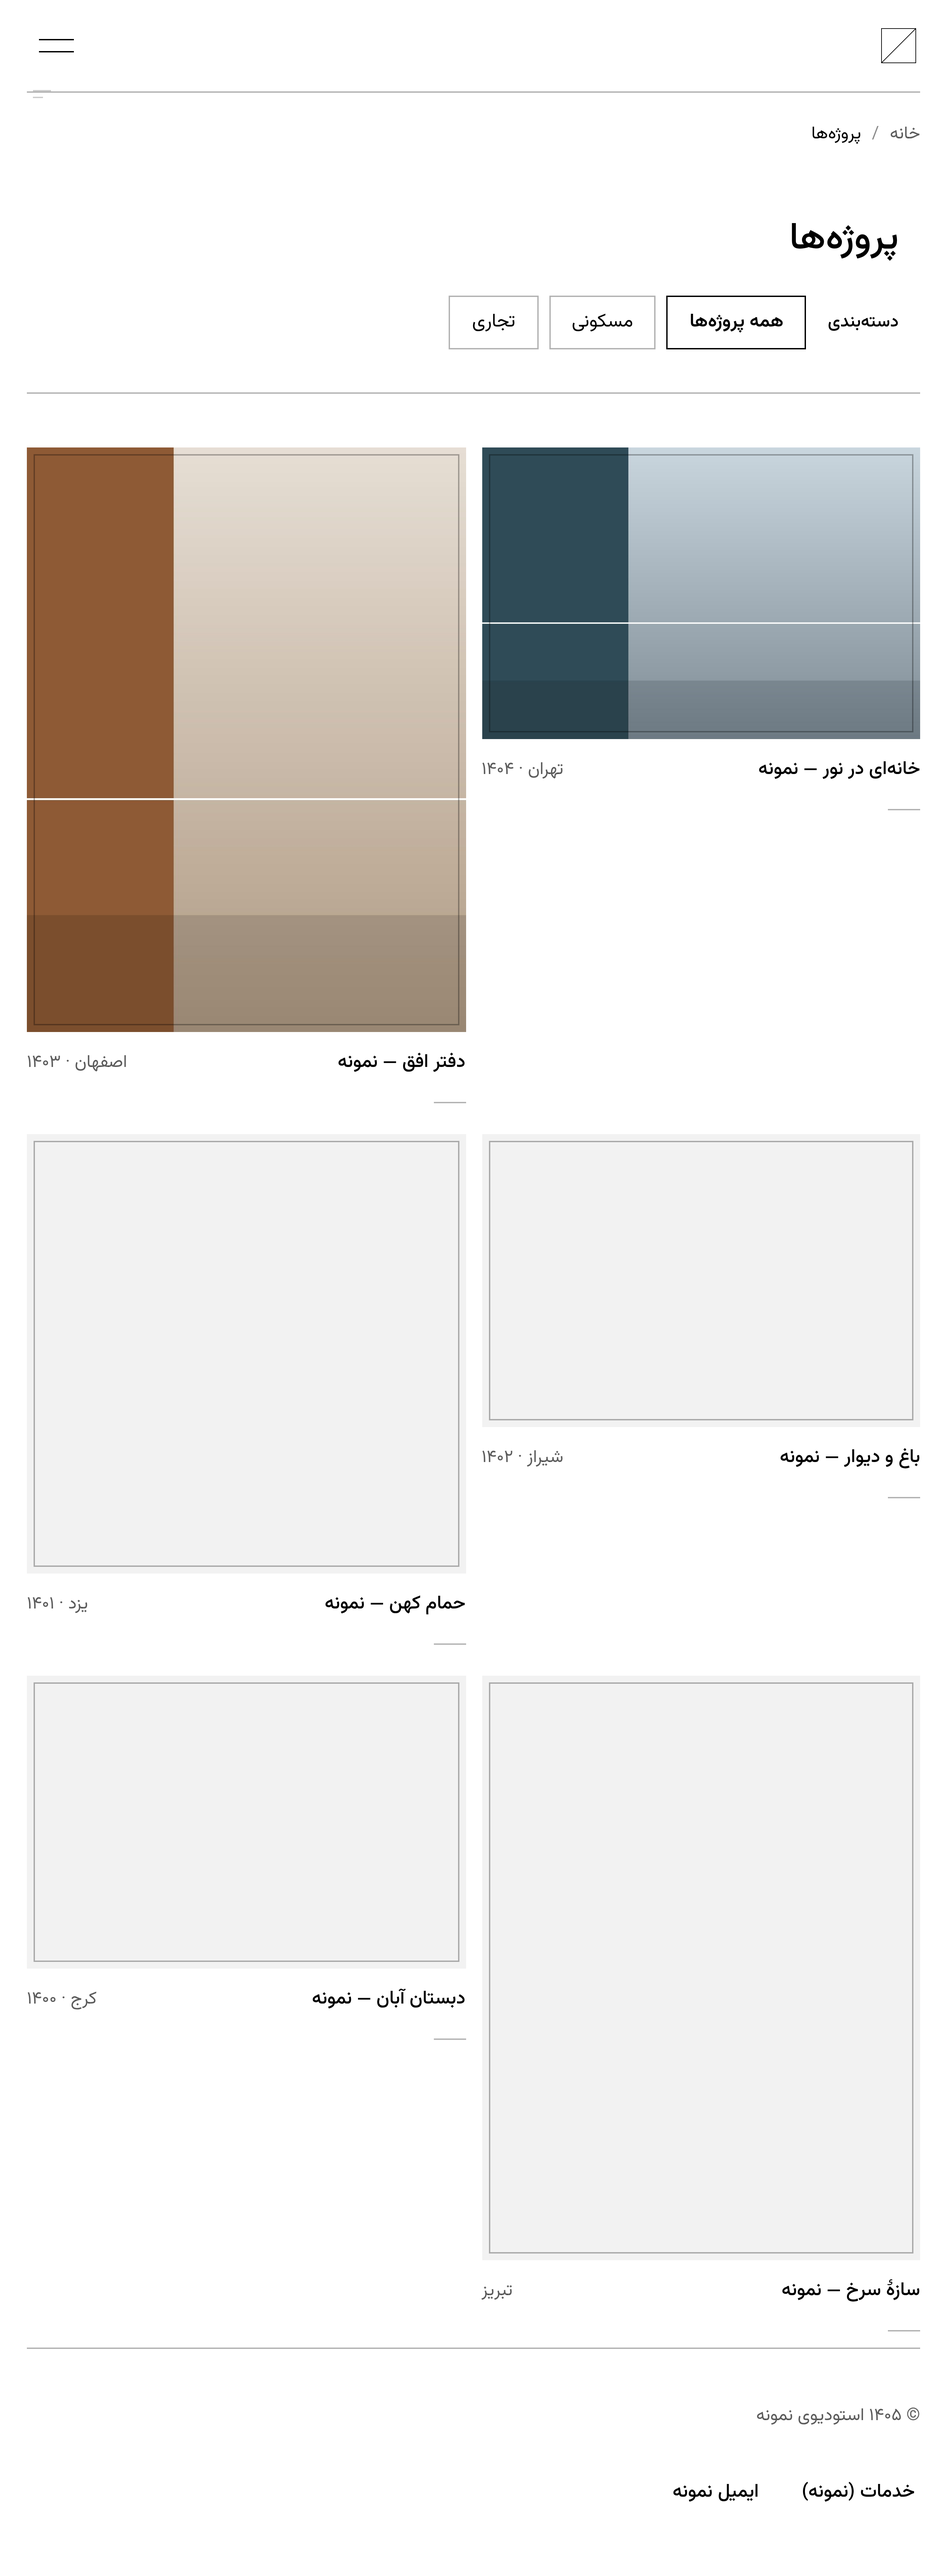
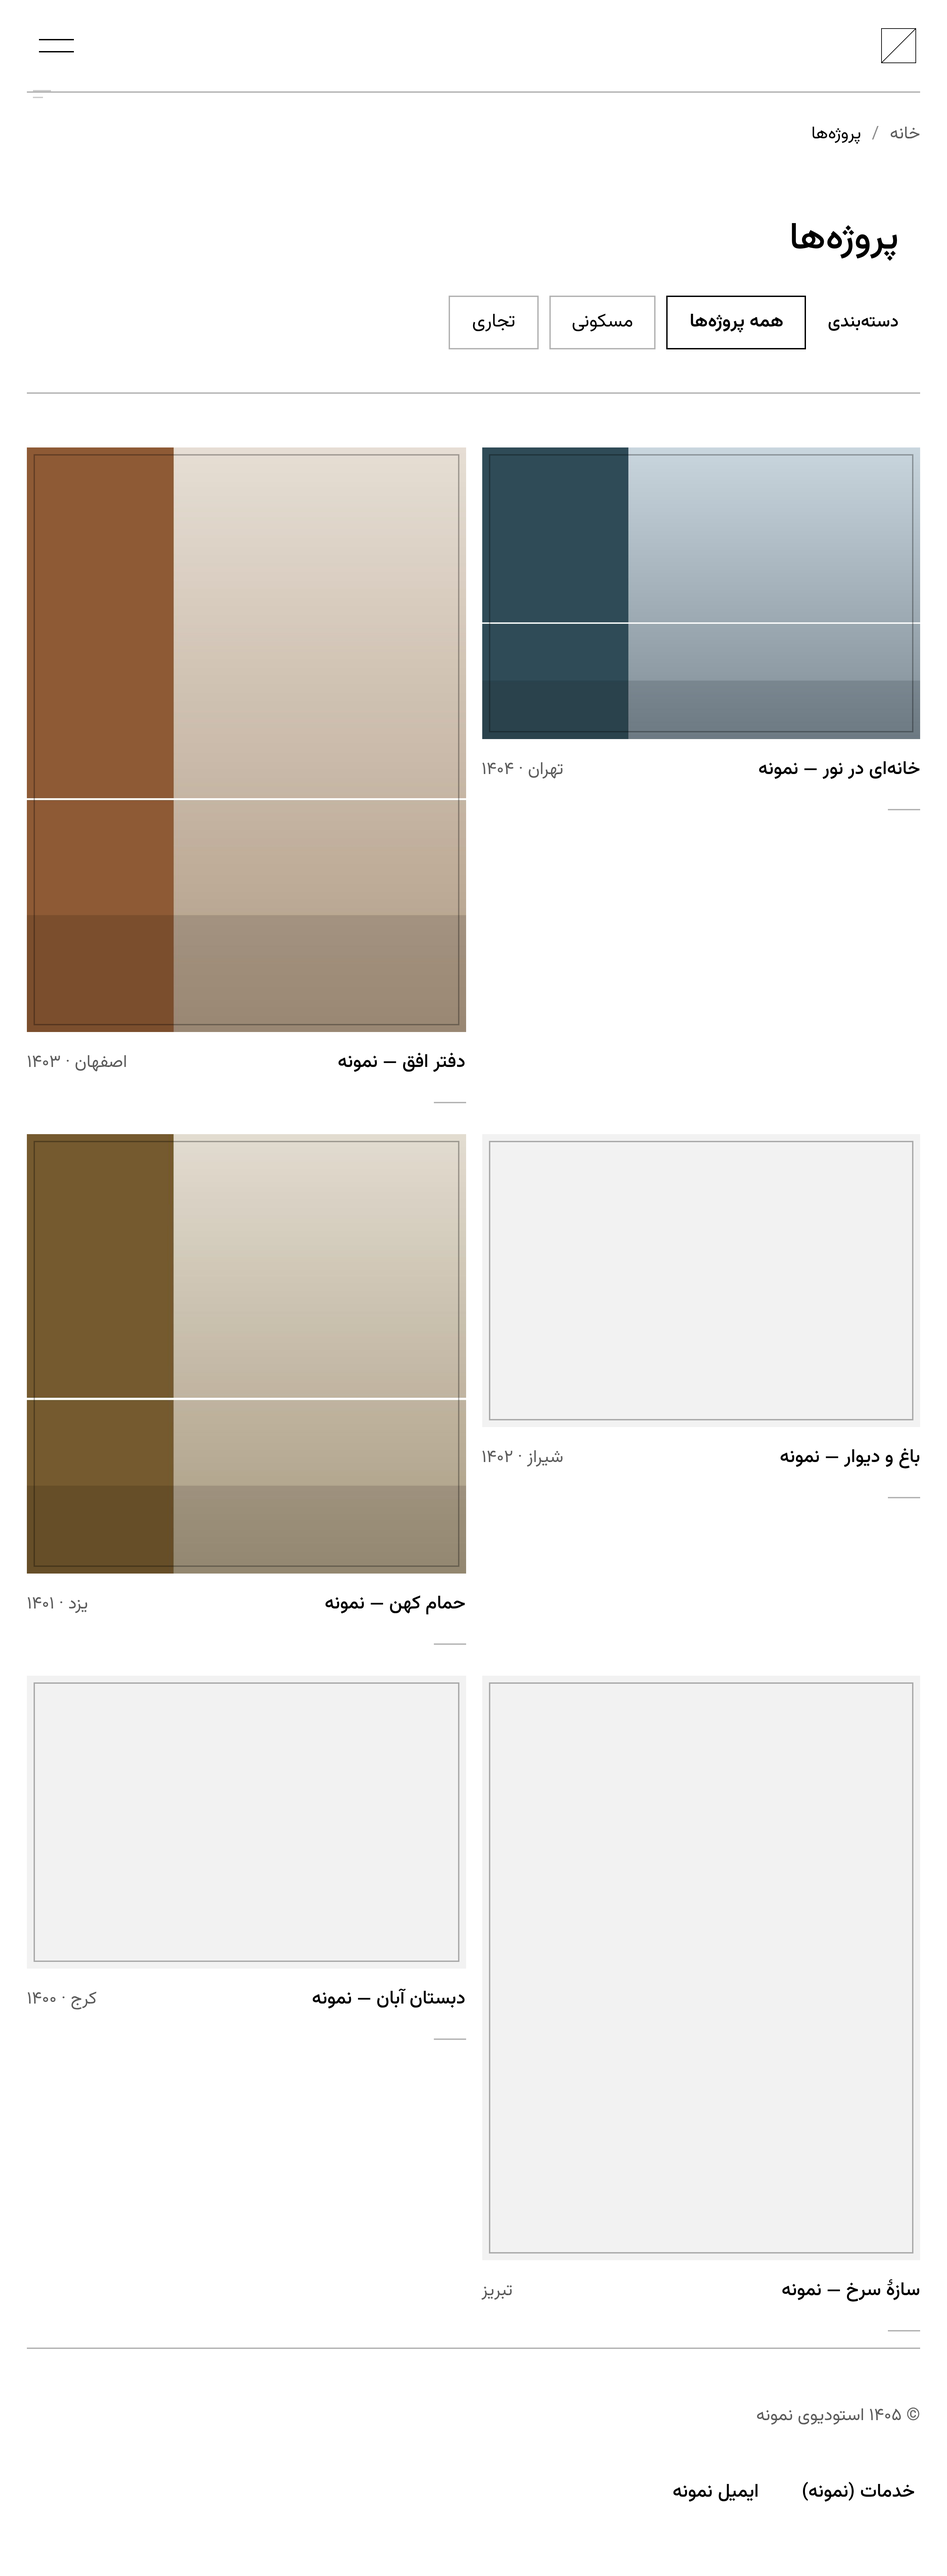
Fix the double locale prefix on the home language switch
`HomeView` built the switch target from `href('/', locale, site)` inside the
closure, so `href` applied the prefix a second time: on `/en` the "English"
entry pointed at `/en/en` and "فارسی" pointed back at `/en` instead of `/`.
The switch now takes the locale-neutral home path and `href` applies the prefix
exactly once — verified live in both directions and pinned by tests
(`89 tests`, 9 files). Evidence regenerated: 40 shots, 0 failures, 0 overflow
offenders, 0 console errors.

Changed region(s): [[0.0312, 0.4364, 0.4993, 0.6234]]

diff --git a/tests/content.test.ts b/tests/content.test.ts
@@ -172,6 +172,23 @@ describe('language switch targets', () => {
     expect(english?.href).toBe('/en/search?q=%D9%86%D9%88%D8%B1')
   })
 
+  it('builds the home switch from a locale-neutral path, never a prefixed one', async () => {
+    // The bug this guards: passing `href('/', locale, site)` inside the closure applied
+    // the prefix twice, so the English home offered `/en/en` and pointed "فارسی" at `/en`.
+    const { switchTargetsForPath } = await import('@/lib/seo/translations')
+    for (const from of ['fa', 'en'] as Locale[]) {
+      const targets = switchTargetsForPath(ctx(from), () => '/')
+      expect(targets.find((target) => target.locale === 'fa')?.href).toBe('/')
+      expect(targets.find((target) => target.locale === 'en')?.href).toBe('/en')
+    }
+  })
+
+  it('switches an interior path in both directions', async () => {
+    const { switchTargetsForPath } = await import('@/lib/seo/translations')
+    const targets = switchTargetsForPath(ctx('en'), () => '/projects')
+    expect(targets.map((target) => target.href).sort()).toEqual(['/en/projects', '/projects'])
+  })
+
   it('keeps the default locale unprefixed and adds no empty query', async () => {
     const { switchTargetsForPath } = await import('@/lib/seo/translations')
     const targets = switchTargetsForPath(ctx('en'), () => '/projects')

diff --git a/src/views/HomeView.tsx b/src/views/HomeView.tsx
@@ -4,7 +4,6 @@ import { HomeStage } from '@/components/home/HomeStage'
 import { StateView } from '@/views/StateView'
 import { getHeader } from '@/lib/cms/endpoints'
 import { loadPageContext } from '@/lib/cms/pageContext'
-import { href } from '@/lib/routing/locale'
 import { navLinks } from '@/lib/routing/nav'
 import { THEME_ROUTES } from '@/lib/routing/paths'
 import { metadataFor } from '@/lib/seo/metadata'
@@ -41,6 +40,8 @@ export const HomeView = async ({ locale }: { locale: Locale }) => {
   const branding = ctx.site.branding
   const t = dictionary(locale)
 
+  // The switch is path-based: the home path is locale-neutral, so `href` applies the
+  // prefix exactly once. Pre-prefixing it here produced `/en/en` on the English home.
   return (
     <HomeStage
       dir={ctx.dir}
@@ -57,7 +58,7 @@ export const HomeView = async ({ locale }: { locale: Locale }) => {
       menuNoScript={t.menuNoScript}
       name={branding?.displayName ?? ctx.site.name}
       scrollCue={t.scrollCue}
-      switchTargets={switchTargetsForPath(ctx, () => href(THEME_ROUTES.home, locale, ctx.site))}
+      switchTargets={switchTargetsForPath(ctx, () => THEME_ROUTES.home)}
     />
   )
 }

diff --git a/docs/QA.md b/docs/QA.md
@@ -38,7 +38,7 @@ the resulting screenshots look fine while measuring nothing.
 | Vendored runtime builds | `npm run vendor:build` | passes (8 modules emitted) |
 | TypeScript | `npm run typecheck` | clean, `strict` + `noUncheckedIndexedAccess` + `verbatimModuleSyntax` |
 | ESLint | `npm run lint` | 0 errors, 0 warnings |
-| Unit/integration tests | `npm test` | **9 files, 87 tests, all passing** |
+| Unit/integration tests | `npm test` | **9 files, 89 tests, all passing** |
 | Production build | `npm run build` | Next 16.3.8, compiles, all routes emitted |
 | Browser evidence | `node scripts/screenshots.mjs` | **40 shots, 0 failures**, no page errors, no horizontal overflow |
 | Manifest | `tests/manifest.test.ts` + the CMS's own parser | accepted (§5) |
@@ -152,7 +152,7 @@ identifier is neutral.
 
 ## 6. Regression list — real defects found and fixed during this work
 
-Each was reproduced in a browser or by a failing test before being fixed (17 items).
+Each was reproduced in a browser or by a failing test before being fixed (18 items).
 
 1. **CSS layers.** `styles/*.css` were unlayered and outranked Tailwind utilities, so
    `md:hidden` and `md:grid-cols-*` silently did nothing (the hamburger showed at 1440px).
@@ -196,7 +196,11 @@ Each was reproduced in a browser or by a failing test before being fixed (17 ite
 16. **Language switch dropped the search term.** `/search?q=…` switched language to a bare
     `/en/search`. Locale-neutral queries are carried over; category slugs deliberately are not,
     because they belong to one locale.
-17. **Dead end without JavaScript.** The entrance's menu is a client state change and the logo,
+17. **Double locale prefix on the English home.** The home language switch pre-applied the
+    locale before `href` applied it again, so `/en` offered `/en/en` for "English" and pointed
+    "فارسی" back at `/en`. The switch now takes the locale-neutral home path; both directions
+    are covered by tests and by shots 01/03.
+18. **Dead end without JavaScript.** The entrance's menu is a client state change and the logo,
     rule and cue are server-rendered at `opacity: 0`, so a visitor with scripting off saw a
     blank stage and no way into the site. A `<noscript>` menu now lists the same CMS
     destinations and a no-script stylesheet reveals the stage — captured as shot 40.

diff --git a/README.md b/README.md
@@ -60,7 +60,7 @@ npm run verify        # vendor:build → typecheck → lint → test → build
 ```
 
 `verify` includes lint — it is not skipped. Current state: typecheck clean, 0 lint errors,
-87 tests passing, production build succeeding. See `docs/QA.md` §2.
+89 tests passing, production build succeeding. See `docs/QA.md` §2.
 
 ## Configuration
 
